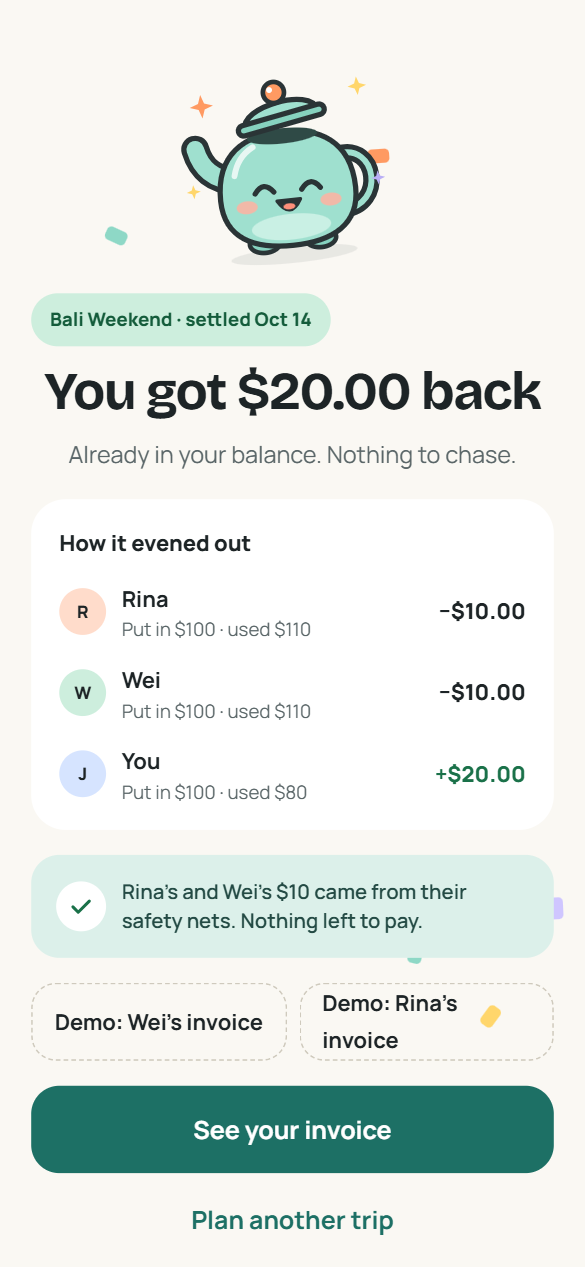
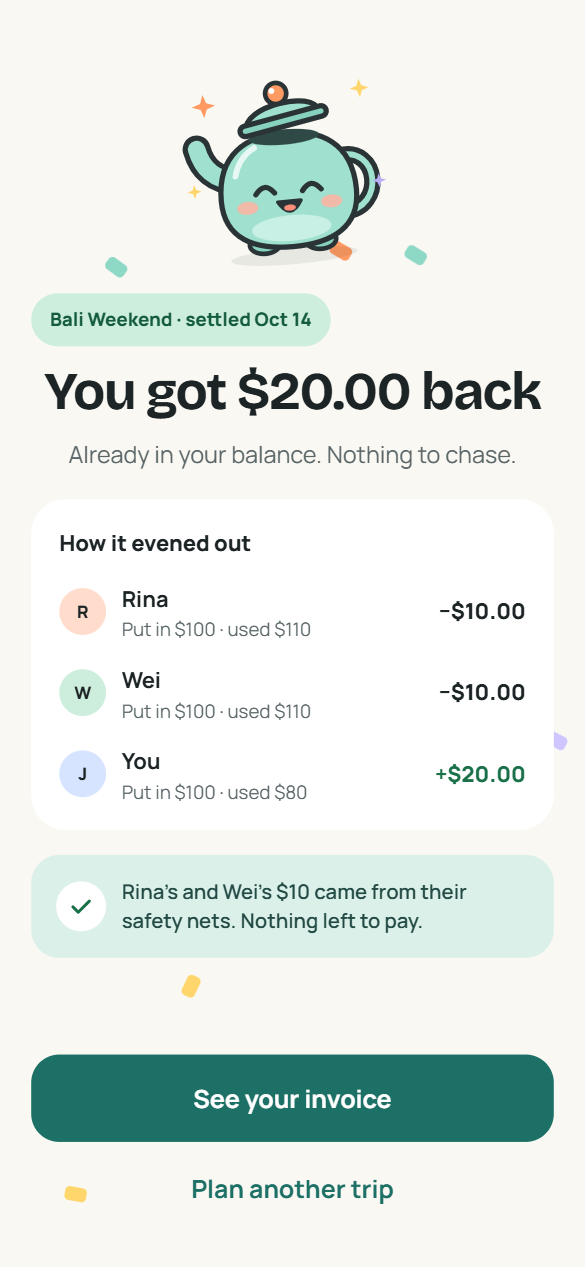
fix(mobile): drop the demo invoice buttons from the settle-up screen
The invoice screen already switches between members, so the extra
"Demo: Wei's / Rina's invoice" buttons only cluttered settle-up.
Retake the settle-up screenshot and the README showcase.

diff --git a/apps/mobile/src/app/trip/[id]/settled.tsx b/apps/mobile/src/app/trip/[id]/settled.tsx
@@ -9,7 +9,7 @@ import { Icon } from '@/components/ui/icon';
 import { InfoBox, Pill, Screen, Surface } from '@/components/ui/layout';
 import { Text } from '@/components/ui/text';
 import { combine, QueryState } from '@/components/query-state';
-import { colors, fonts, radius } from '@/constants/theme';
+import { colors, fonts } from '@/constants/theme';
 import type { Settlement, Trip } from '@/data/types';
 import { useSettlement } from '@/features/trips/useSettlement';
 import { useOutstandingDebt } from '@/features/trips/useOutstandingDebt';
@@ -97,15 +97,6 @@ function SettledView({ trip, settlement }: { trip: Trip; settlement: Settlement 
           : `${short.join("'s and ")}'s $10 came from their safety nets. Nothing left to pay.`}
       </InfoBox>
 
-      {/* Tautan demo untuk varian invoice di HP anggota lain (I2, I3). */}
-      {!isLive && <View style={styles.demoRow}>
-        <Link href={`/trip/${trip.id}/invoice?who=wei`} asChild>
-          <Button label="Demo: Wei's invoice" variant="dashed" style={styles.demo} />
-        </Link>
-        <Link href={`/trip/${trip.id}/invoice?who=rina`} asChild>
-          <Button label="Demo: Rina's invoice" variant="dashed" style={styles.demo} />
-        </Link>
-      </View>}
     </Screen>
   );
 }
@@ -126,14 +117,5 @@ const styles = StyleSheet.create({
     backgroundColor: colors.surface,
     alignItems: 'center',
     justifyContent: 'center',
-  },
-  demoRow: {
-    flexDirection: 'row',
-    gap: 8,
-  },
-  demo: {
-    flex: 1,
-    minHeight: 44,
-    borderRadius: radius.input,
   },
 });
